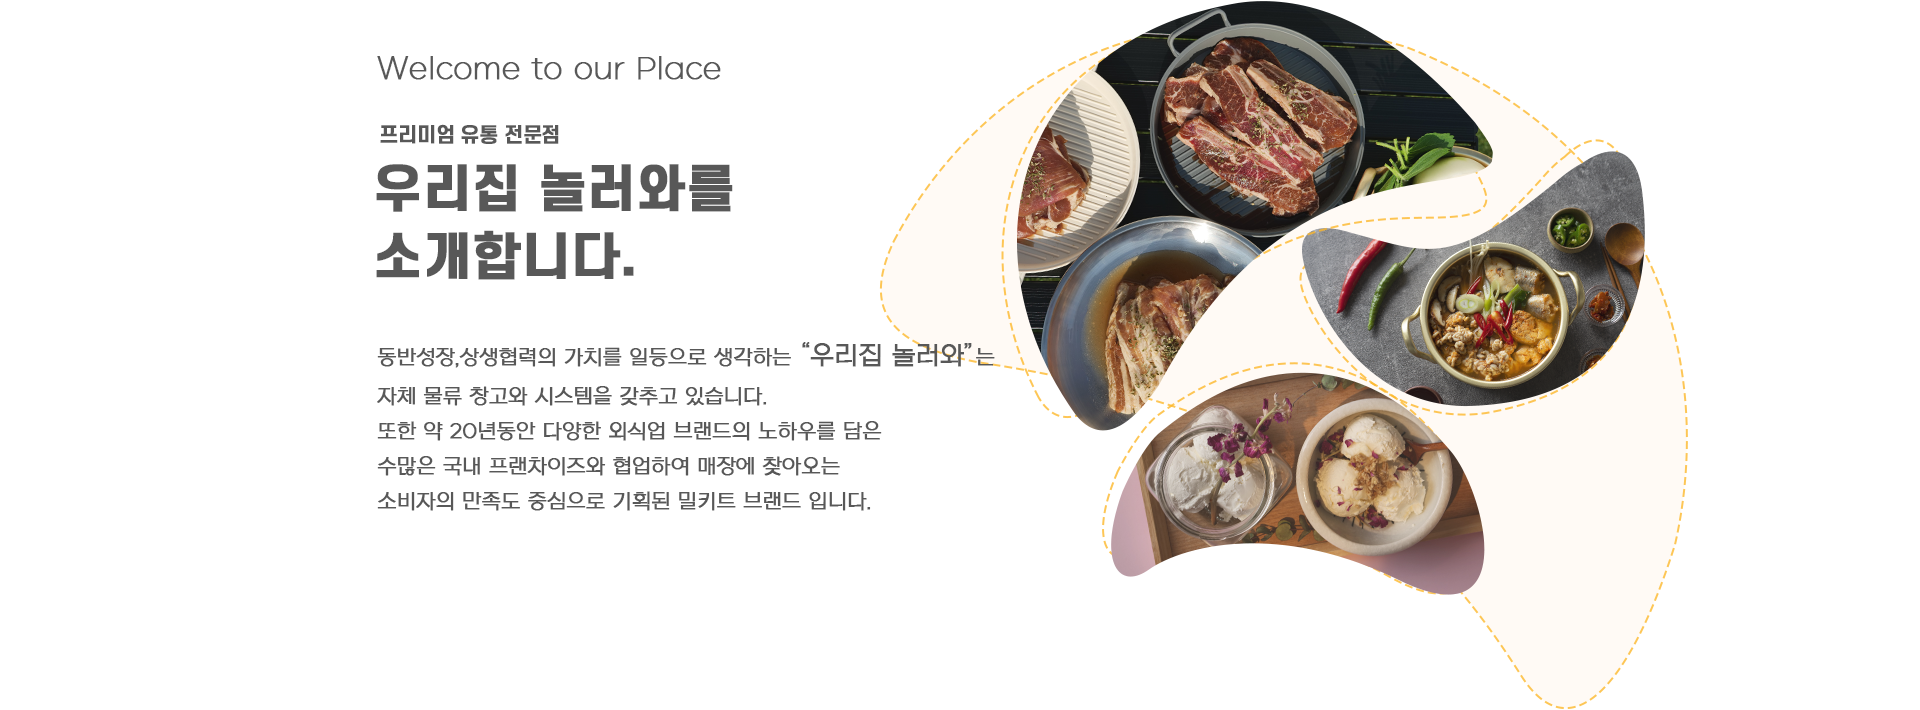
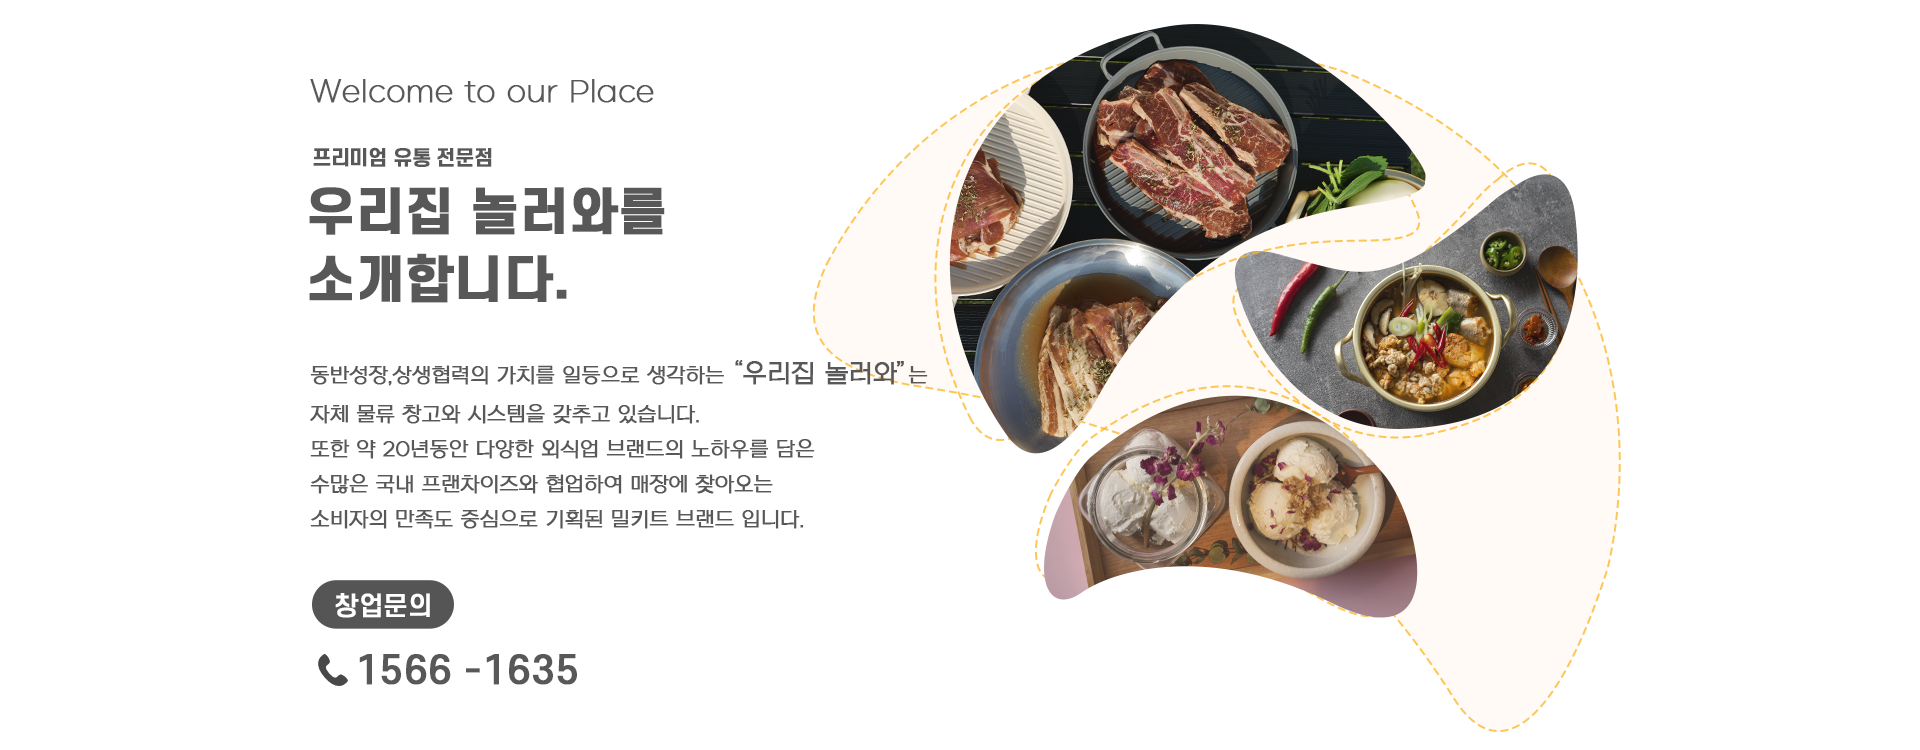
비주얼 이미지 교체 + map 추가

diff --git a/index.html b/index.html
@@ -105,7 +105,10 @@
         </header>
         <div id="content">
             <section id="visual_section" class="visual_section">
-                <img src="/wn-official/src/img/content/visual.png" alt="우리집 놀러와 비주얼">
+                <img src="/wn-official/src/img/content/visual.png" alt="우리집 놀러와 비주얼" usemap="#visual-map">
+                <map name="visual-map">
+                    <area target="_self" alt="우리집놀러와 창업문의" title="우리집놀러와 창업문의" href="tel:1566-1635" coords="315,641,588,696" shape="rect">
+                </map>
             </section>
             <section id="brand_section" class="brand_section">
                 <div class="brand_wrap_info">

diff --git a/src/css/main.css b/src/css/main.css
@@ -8,7 +8,7 @@
   -webkit-box-align: center;
       -ms-flex-align: center;
           align-items: center;
-  margin-top: 4%;
+  margin-top: 2%;
   width: 100%;
   height: auto;
 }

diff --git a/src/scss/main.scss b/src/scss/main.scss
@@ -3,7 +3,7 @@
     display: flex;
     justify-content: center;
     align-items: center;
-    margin-top: 4%;
+    margin-top: 2%;
     width: 100%;
     height: auto;
     img {
